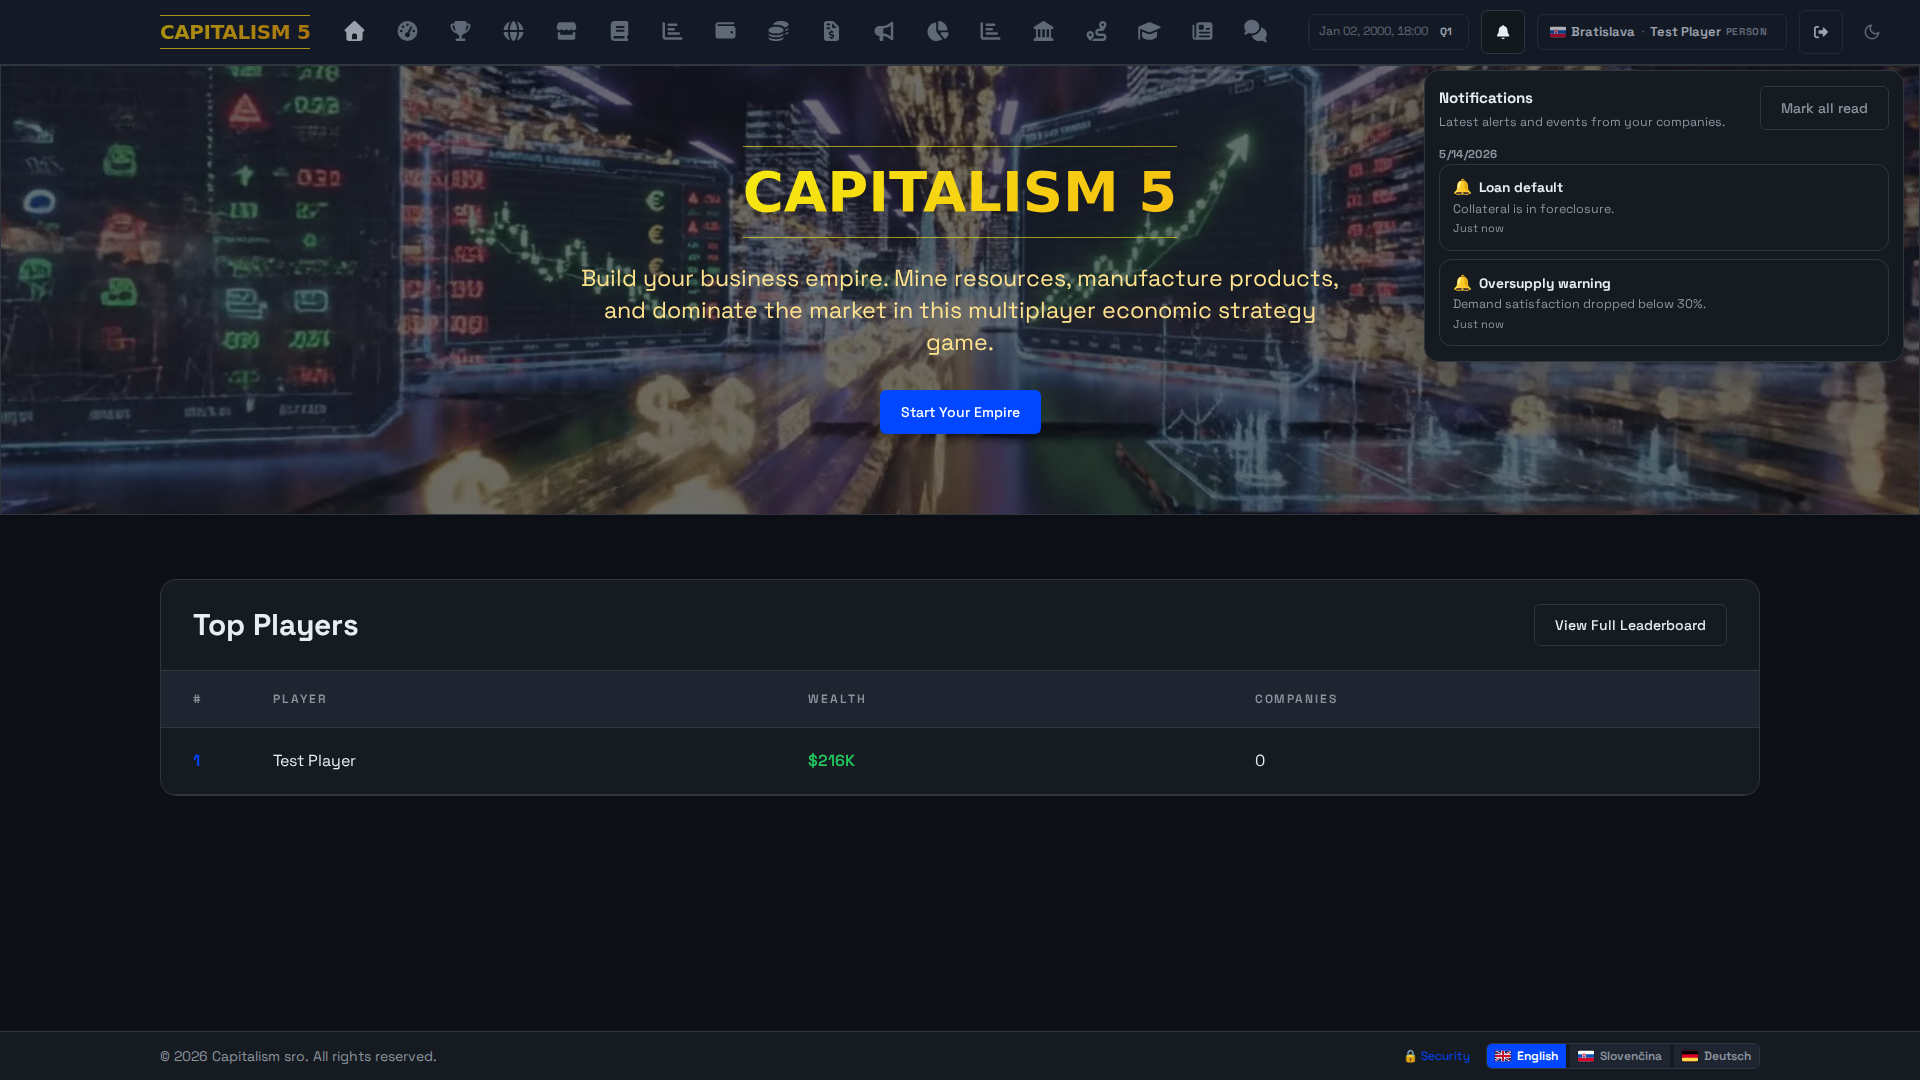
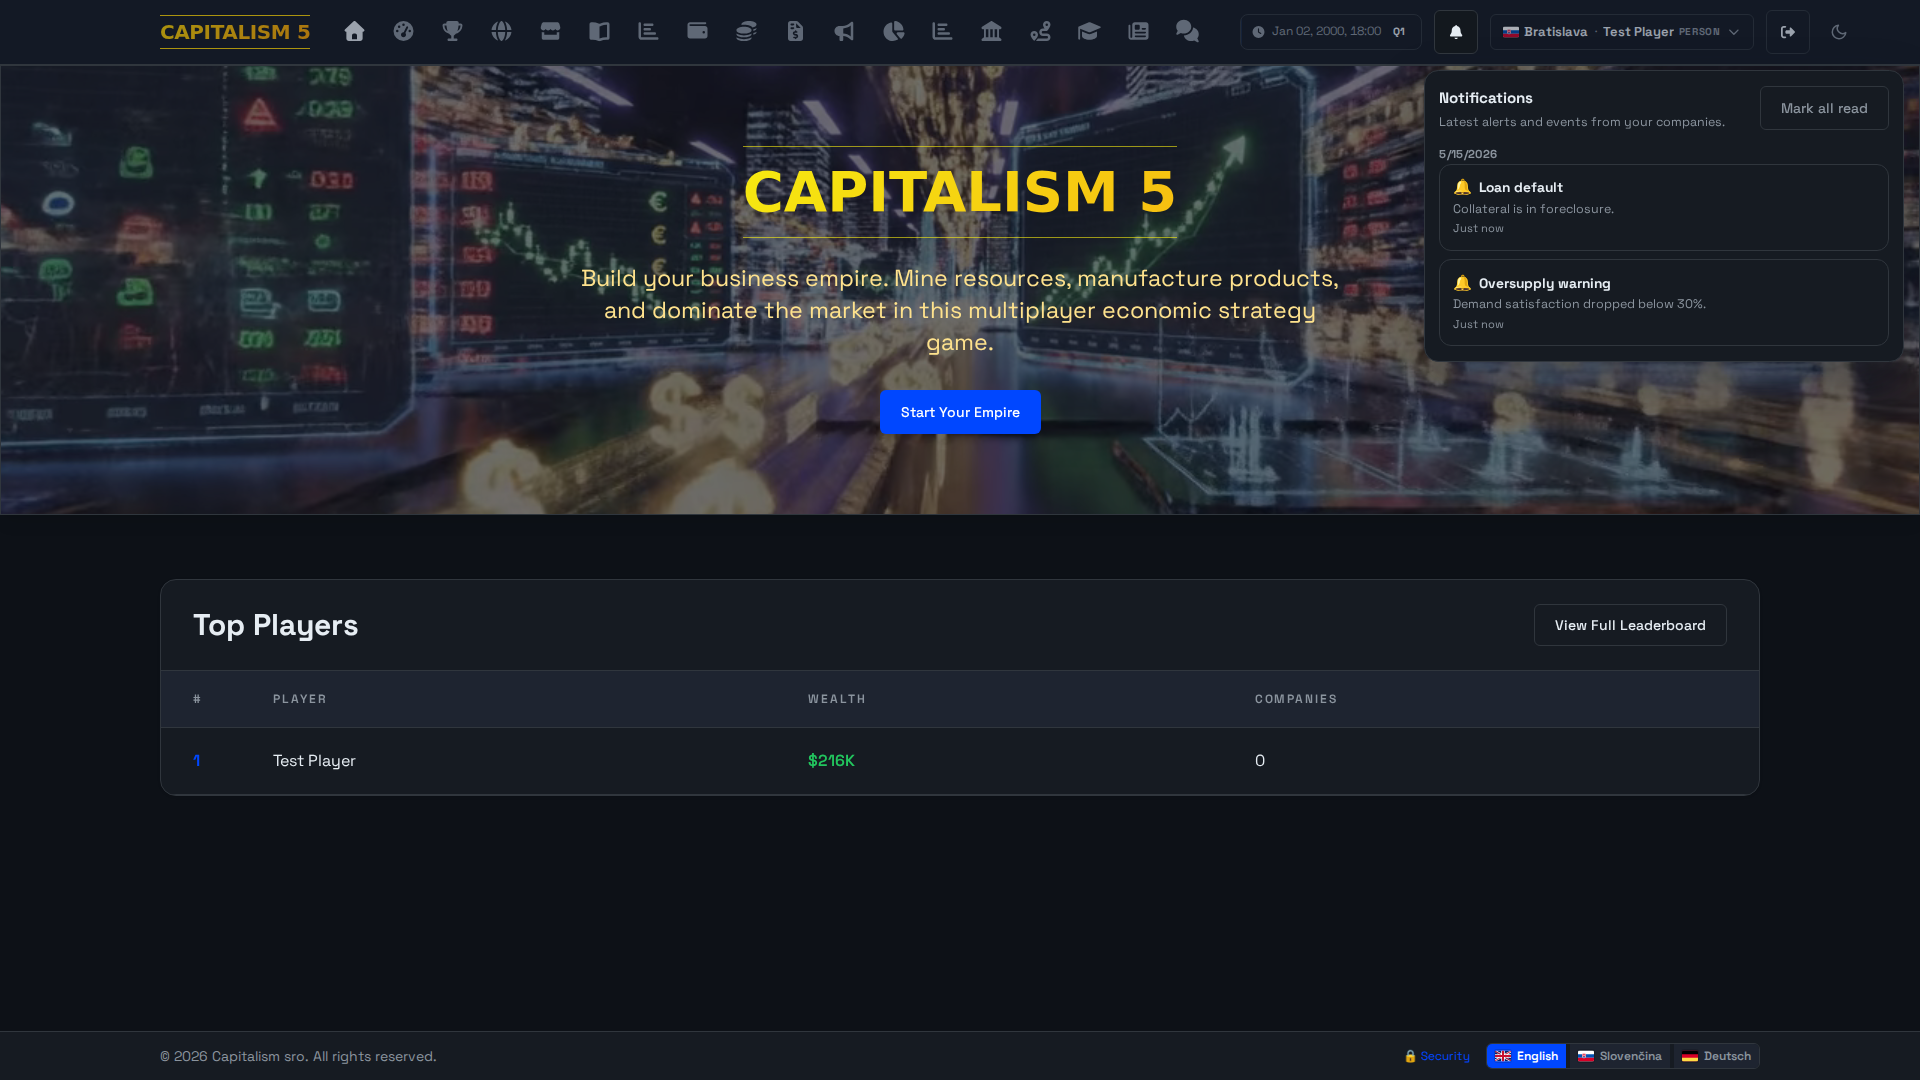
Fix 9 failing E2E tests: global events panel + responsive layout overflow
Agent-Logs-Url: https://github.com/ludovit-scholtz/capitalism/sessions/a5a9afee-40a0-4e02-b5a9-b522b85e34dd

diff --git a/projects/frontend/src/components/market/GlobalEventsPanel.vue b/projects/frontend/src/components/market/GlobalEventsPanel.vue
@@ -4,13 +4,16 @@ import { useI18n } from 'vue-i18n'
 import { FontAwesomeIcon } from '@fortawesome/vue-fontawesome'
 import { gqlRequest } from '@/lib/graphql'
 import type { GlobalEvent } from '@/types/game'
+import { useAuthStore } from '@/stores/auth'
 
 const { t } = useI18n()
+const auth = useAuthStore()
 
 const activeEvents = ref<GlobalEvent[]>([])
 const historyEvents = ref<GlobalEvent[]>([])
 const loading = ref(false)
 const error = ref<string | null>(null)
+const activeTab = ref<'active' | 'history'>('active')
 
 const ACTIVE_QUERY = `
   query {
@@ -39,18 +42,15 @@ const HISTORY_QUERY = `
 async function loadEvents() {
   loading.value = true
   error.value = null
-  try {
-    const [activeRes, historyRes] = await Promise.all([
-      gqlRequest<{ activeGlobalEvents: GlobalEvent[] }>(ACTIVE_QUERY),
-      gqlRequest<{ globalEventHistory: GlobalEvent[] }>(HISTORY_QUERY),
-    ])
-    activeEvents.value = activeRes.activeGlobalEvents ?? []
-    historyEvents.value = historyRes.globalEventHistory ?? []
-  } catch (e) {
-    error.value = String(e)
-  } finally {
-    loading.value = false
-  }
+  const [activeResult, historyResult] = await Promise.allSettled([
+    gqlRequest<{ activeGlobalEvents: GlobalEvent[] }>(ACTIVE_QUERY),
+    gqlRequest<{ globalEventHistory: GlobalEvent[] }>(HISTORY_QUERY),
+  ])
+  activeEvents.value =
+    activeResult.status === 'fulfilled' ? (activeResult.value.activeGlobalEvents ?? []) : []
+  historyEvents.value =
+    historyResult.status === 'fulfilled' ? (historyResult.value.globalEventHistory ?? []) : []
+  loading.value = false
 }
 
 function severityClass(severity: string) {
@@ -91,6 +91,24 @@ onMounted(loadEvents)
       <h3>{{ t('globalEvents.title') }}</h3>
     </div>
 
+    <!-- Tab navigation -->
+    <div class="tab-bar">
+      <button
+        class="tab-btn"
+        :class="{ 'tab-btn-active': activeTab === 'active' }"
+        @click="activeTab = 'active'"
+      >
+        {{ t('globalEvents.active') }}
+      </button>
+      <button
+        class="tab-btn"
+        :class="{ 'tab-btn-active': activeTab === 'history' }"
+        @click="activeTab = 'history'"
+      >
+        {{ t('globalEvents.history') }}
+      </button>
+    </div>
+
     <div v-if="loading" class="loading-state">
       <FontAwesomeIcon :icon="['fas', 'spinner']" spin />
     </div>
@@ -98,20 +116,24 @@ onMounted(loadEvents)
     <div v-else-if="error" class="error-state">{{ error }}</div>
 
     <template v-else>
-      <section class="events-section">
-        <h4 class="section-label">{{ t('globalEvents.active') }}</h4>
-        <div v-if="activeEvents.length === 0" class="no-events">
+      <!-- Active events tab -->
+      <section v-if="activeTab === 'active'" class="events-section">
+        <div
+          v-if="activeEvents.filter((e) => e.isActive).length === 0"
+          class="no-events ge-empty-state"
+        >
           {{ t('globalEvents.noActiveEvents') }}
         </div>
         <div
-          v-for="event in activeEvents"
+          v-for="event in activeEvents.filter((e) => e.isActive)"
           :key="event.id"
           class="event-card active-event"
           :class="severityClass(event.severity)"
         >
           <div class="event-header">
-            <span class="severity-badge">{{ t(`globalEvents.severity.${event.severity}`) }}</span>
-            <span class="event-type">{{ t(`globalEvents.type.${event.eventType}`) }}</span>
+            <span class="severity-badge ge-severity-badge">{{
+              t(`globalEvents.severity.${event.severity}`)
+            }}</span>
           </div>
           <div class="event-title">{{ event.title }}</div>
           <div class="event-description">{{ event.description }}</div>
@@ -131,7 +153,7 @@ onMounted(loadEvents)
             <span class="effects-label">{{ t('globalEvents.multipliers') }}:</span>
             <span
               v-if="formatMultiplier(event.operatingCostMultiplier)"
-              class="effect-chip"
+              class="effect-chip ge-multiplier-chip"
               :class="event.operatingCostMultiplier > 1 ? 'effect-negative' : 'effect-positive'"
             >
               {{ t('globalEvents.operatingCost') }}
@@ -139,7 +161,7 @@ onMounted(loadEvents)
             </span>
             <span
               v-if="formatMultiplier(event.tradeRouteMultiplier)"
-              class="effect-chip"
+              class="effect-chip ge-multiplier-chip"
               :class="event.tradeRouteMultiplier > 1 ? 'effect-negative' : 'effect-positive'"
             >
               {{ t('globalEvents.tradeRoute') }}
@@ -147,7 +169,7 @@ onMounted(loadEvents)
             </span>
             <span
               v-if="formatMultiplier(event.rdMultiplier)"
-              class="effect-chip"
+              class="effect-chip ge-multiplier-chip"
               :class="event.rdMultiplier < 1 ? 'effect-negative' : 'effect-positive'"
             >
               {{ t('globalEvents.research') }}
@@ -155,7 +177,7 @@ onMounted(loadEvents)
             </span>
             <span
               v-if="formatMultiplier(event.mineEfficiencyMultiplier)"
-              class="effect-chip"
+              class="effect-chip ge-multiplier-chip"
               :class="event.mineEfficiencyMultiplier < 1 ? 'effect-negative' : 'effect-positive'"
             >
               {{ t('globalEvents.mineEfficiency') }}
@@ -165,23 +187,37 @@ onMounted(loadEvents)
         </div>
       </section>
 
-      <section v-if="historyEvents.length > 0" class="events-section history-section">
-        <h4 class="section-label">{{ t('globalEvents.history') }}</h4>
+      <!-- History tab -->
+      <section v-if="activeTab === 'history'" class="events-section history-section">
+        <div
+          v-if="historyEvents.filter((e) => !e.isActive).length === 0"
+          class="no-events ge-empty-state"
+        >
+          {{ t('globalEvents.noHistory') }}
+        </div>
         <div
           v-for="event in historyEvents.filter((e) => !e.isActive)"
           :key="event.id"
           class="event-card resolved-event"
         >
           <div class="event-header">
-            <span class="severity-badge resolved-badge">{{
+            <span class="severity-badge ge-severity-badge resolved-badge">{{
               t(`globalEvents.severity.${event.severity}`)
             }}</span>
-            <span class="event-type">{{ t(`globalEvents.type.${event.eventType}`) }}</span>
           </div>
           <div class="event-title">{{ event.title }}</div>
         </div>
       </section>
     </template>
+
+    <!-- Admin section: trigger event -->
+    <div v-if="auth.isAdmin" class="ge-admin-section">
+      <h4 class="section-label">{{ t('globalEvents.admin.title') }}</h4>
+      <button class="btn btn-warning ge-trigger-btn" @click="() => {}">
+        <FontAwesomeIcon :icon="['fas', 'bolt']" class="mr-1" />
+        {{ t('globalEvents.admin.trigger') }}
+      </button>
+    </div>
   </div>
 </template>
 
@@ -333,5 +369,44 @@ onMounted(loadEvents)
   padding: 1rem;
   text-align: center;
   color: var(--color-text-muted);
+}
+
+.tab-bar {
+  display: flex;
+  gap: 0.25rem;
+  margin-bottom: 1rem;
+  border-bottom: 1px solid var(--color-border);
+  padding-bottom: 0.5rem;
+}
+
+.tab-btn {
+  background: none;
+  border: none;
+  padding: 0.35rem 0.75rem;
+  border-radius: 4px;
+  cursor: pointer;
+  font-size: 0.85rem;
+  color: var(--color-text-muted);
+  font-weight: 500;
+}
+
+.tab-btn:hover {
+  background: var(--color-hover);
+  color: var(--color-text);
+}
+
+.tab-btn-active {
+  background: var(--color-primary);
+  color: #fff;
+}
+
+.ge-admin-section {
+  margin-top: 1rem;
+  padding-top: 1rem;
+  border-top: 1px solid var(--color-border);
+}
+
+.ge-trigger-btn {
+  font-size: 0.85rem;
 }
 </style>

diff --git a/projects/frontend/e2e/helpers/mock-api.ts b/projects/frontend/e2e/helpers/mock-api.ts
@@ -10178,7 +10178,10 @@ export function setupMockApi(page: Page, initial?: Partial<MockState>): MockStat
       !q.includes('productQualityProfile') &&
       !q.includes('buildingResearchProgress') &&
       // competitorQualityIntelligence contains companyName which has 'me' as substring
-      !q.includes('competitorQualityIntelligence')
+      !q.includes('competitorQualityIntelligence') &&
+      // activeGlobalEvents/globalEventHistory queries include affectedCity { id name } where 'name' contains 'me'
+      !q.includes('activeGlobalEvents') &&
+      !q.includes('globalEventHistory')
 
     if (isStandaloneMeQuery(query)) {
       const player = resolveCurrentPlayer()
@@ -11707,6 +11710,29 @@ export function setupMockApi(page: Page, initial?: Partial<MockState>): MockStat
         status: 200,
         contentType: 'application/json',
         body: JSON.stringify({ data: { getMineExtractionIntelligence: mockIntelligence } }),
+      })
+    }
+
+    // Standalone activeGlobalEvents query
+    if (
+      query.includes('activeGlobalEvents') &&
+      !query.includes('myCompanies') &&
+      !query.includes('getActiveMarketEvents')
+    ) {
+      return route.fulfill({
+        status: 200,
+        contentType: 'application/json',
+        body: JSON.stringify({ data: { activeGlobalEvents: state.activeGlobalEvents ?? [] } }),
+      })
+    }
+
+    // Standalone globalEventHistory query
+    if (query.includes('globalEventHistory') && !query.includes('myCompanies')) {
+      const historyEvents = (state.activeGlobalEvents ?? []).filter((e) => !e.isActive)
+      return route.fulfill({
+        status: 200,
+        contentType: 'application/json',
+        body: JSON.stringify({ data: { globalEventHistory: historyEvents } }),
       })
     }
 

diff --git a/projects/frontend/src/components/market/GlobalEventBanner.vue b/projects/frontend/src/components/market/GlobalEventBanner.vue
@@ -1,14 +1,18 @@
 <script setup lang="ts">
 import { ref, computed, onMounted } from 'vue'
 import { useI18n } from 'vue-i18n'
+import { useRoute } from 'vue-router'
 import { FontAwesomeIcon } from '@fortawesome/vue-fontawesome'
 import { gqlRequest } from '@/lib/graphql'
 import type { GlobalEvent } from '@/types/game'
 
 const { t } = useI18n()
+const route = useRoute()
 
 const events = ref<GlobalEvent[]>([])
 const dismissed = ref(false)
+
+const isEventsPage = computed(() => route.name === 'global-events')
 
 const QUERY = `
   query {
@@ -54,7 +58,7 @@ onMounted(loadEvents)
 
 <template>
   <div
-    v-if="events.length > 0 && !dismissed"
+    v-if="events.length > 0 && !dismissed && !isEventsPage"
     class="global-event-banner"
     :class="severityClass"
     role="alert"

diff --git a/projects/frontend/src/i18n/locales/sk.ts b/projects/frontend/src/i18n/locales/sk.ts
@@ -4365,6 +4365,7 @@ export default {
   globalEvents: {
     title: 'Globálne ekonomické udalosti',
     noActiveEvents: 'Žiadne aktívne ekonomické šoky',
+    noHistory: 'V histórii nie sú žiadne vyriešené udalosti.',
     active: 'Aktívne',
     resolved: 'Vyriešené',
     history: 'História udalostí',
@@ -4400,6 +4401,7 @@ export default {
       viewDetails: 'Zobraziť detaily',
     },
     admin: {
+      title: 'Nástroje správcu',
       trigger: 'Spustiť udalosť',
       resolve: 'Vyriešiť udalosť',
       eventType: 'Typ udalosti',

diff --git a/projects/frontend/src/i18n/locales/de.ts b/projects/frontend/src/i18n/locales/de.ts
@@ -4381,6 +4381,7 @@ export default {
   globalEvents: {
     title: 'Globale Wirtschaftsereignisse',
     noActiveEvents: 'Keine aktiven Wirtschaftsschocks',
+    noHistory: 'Keine abgeschlossenen Ereignisse in der Historie.',
     active: 'Aktiv',
     resolved: 'Gelöst',
     history: 'Ereignisverlauf',
@@ -4416,6 +4417,7 @@ export default {
       viewDetails: 'Details anzeigen',
     },
     admin: {
+      title: 'Admin-Werkzeuge',
       trigger: 'Ereignis auslösen',
       resolve: 'Ereignis lösen',
       eventType: 'Ereignistyp',

diff --git a/projects/frontend/src/i18n/locales/en.ts b/projects/frontend/src/i18n/locales/en.ts
@@ -4376,6 +4376,7 @@ export default {
   globalEvents: {
     title: 'Global Economic Events',
     noActiveEvents: 'No active economic shocks',
+    noHistory: 'No resolved events in history.',
     active: 'Active',
     resolved: 'Resolved',
     history: 'Event History',
@@ -4411,6 +4412,7 @@ export default {
       viewDetails: 'View details',
     },
     admin: {
+      title: 'Admin Tools',
       trigger: 'Trigger Event',
       resolve: 'Resolve Event',
       eventType: 'Event type',

diff --git a/projects/frontend/src/components/layout/AppHeader.vue b/projects/frontend/src/components/layout/AppHeader.vue
@@ -555,7 +555,7 @@ useTickRefresh(async () => {
 
 .desktop-nav-links {
   display: flex;
-  gap: 1.25rem;
+  gap: 1rem;
 }
 
 .nav-link {
